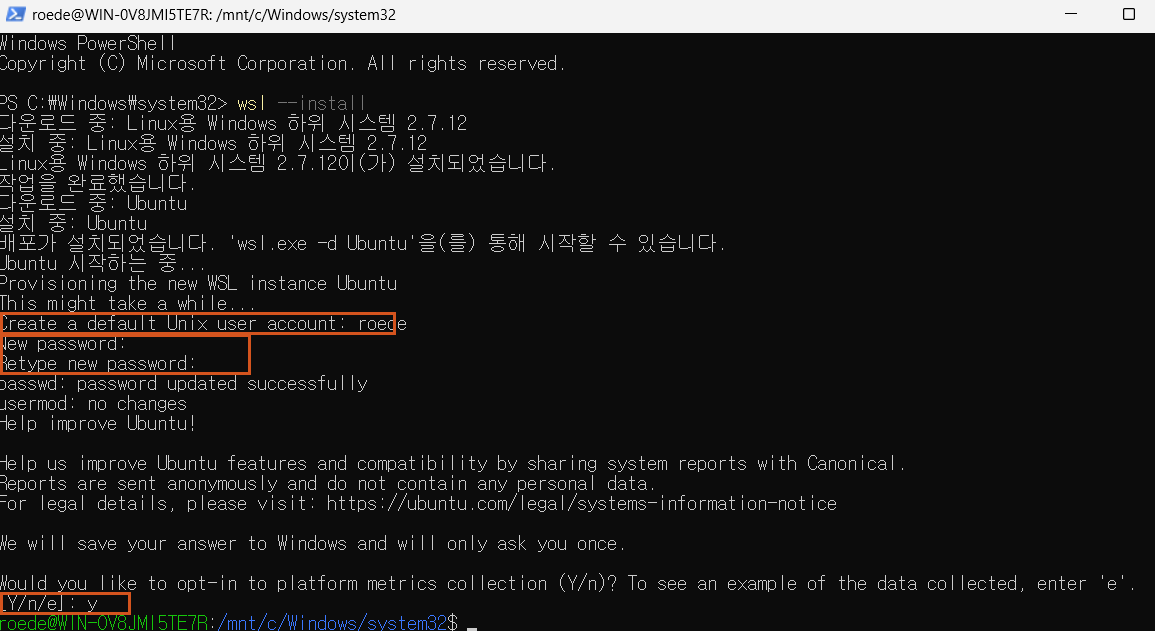
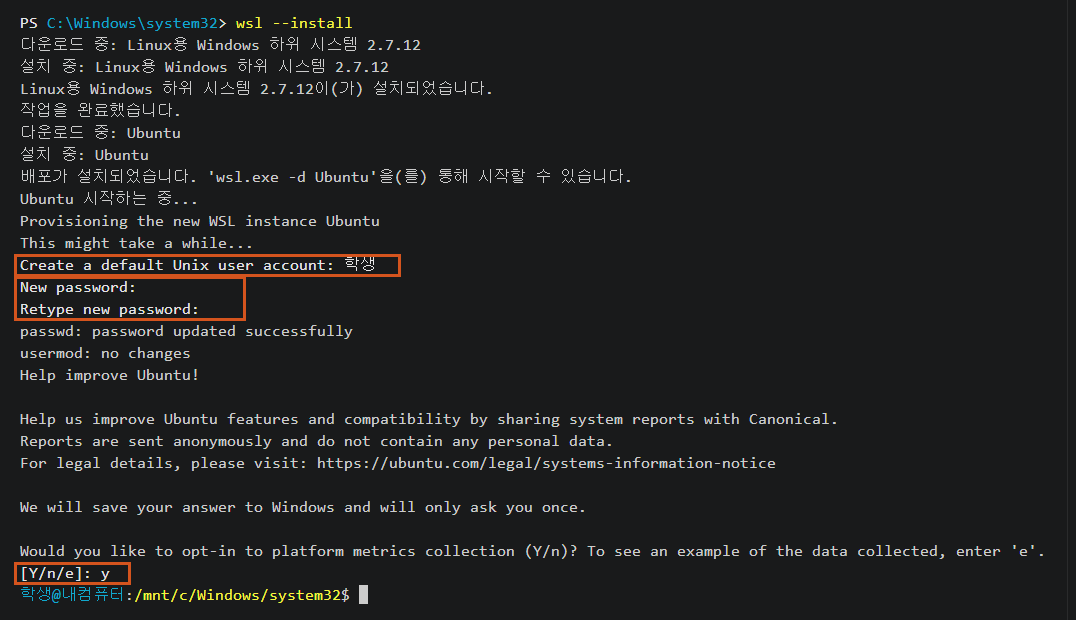
실습 zip 에 .venv 6176개가 섞이던 것 수리 · 개인정보 노출 제거
★ 실습 zip 오염 (가장 큰 것)
  드라이브폴더만들기가 shutil.make_archive 로 폴더를 통째로 담아,
  배포본 폴더에서 uv 를 한 번이라도 돌리면 생긴 .venv 까지 들어갔다.
  실제로 zip 항목이 6269개(그중 .venv 6176개)였다 — 학생 PC 에서는
  경로가 달라 쓰지도 못하는 짐이다. 찌꺼기(.venv/__pycache__/.git/
  *.pyc)를 거르도록 직접 압축으로 바꾸고, 다시 새면 멈추는 게이트 추가.
  결과 64개 파일로 정상화.

★ 개인정보
  wsl --install 실측 사진에 사용자 계정명과 컴퓨터 이름이 그대로
  찍혀 있었다(roede@WIN-...). 사진 대신 터미널그림으로 다시 그려
  「학생@내컴퓨터」로 바꾸고, 물음 세 곳에 강조를 얹었다.
  출력 내용은 실측 그대로.

- 준비안내 ④: 글로만 설명하던 자리에 실측 사진 두 장 추가
  (터미널 메뉴, 터미널 칸의 휴지통). 창이 좁으면 메뉴가 `...` 안으로
  접힌다는 안내 포함. 터미널 칸 사진은 강사 PC 경로가 찍혀 있어
  탭 줄만 잘라 씀
- uv 설치 한 줄을 공식 원문과 일치시킴
  (`-ExecutionPolicy ByPass` 가 빠져 있었다 — 정책이 막힌 PC 에서 실패)

diff --git a/제작/빌드도구/드라이브폴더만들기.py b/제작/빌드도구/드라이브폴더만들기.py
@@ -44,6 +44,7 @@ for _s in (_sys.stdout, _sys.stderr):
 import shutil
 import subprocess
 import sys
+import zipfile
 from pathlib import Path
 
 ROOT = Path(__file__).resolve().parent          # 제작/빌드도구/
@@ -111,13 +112,26 @@ def main() -> int:
         shutil.rmtree(OUT)
     OUT.mkdir(parents=True)
 
-    # ── 실습 ZIP — 옆에 풀려 있는 그 폴더를 그대로 압축한다 ────────────────
+    # ── 실습 ZIP — 옆에 풀려 있는 그 폴더를 압축한다 ──────────────────────
     #    학생은 zip 을 받아 풀어서 VS Code 로 연다(준비안내 ③). 그래서 zip 은 없앨 수 없다.
     #    대신 **풀린 것이 정본**이고 이 zip 은 그 그림자라, 고친 것이 반드시 따라온다.
-    zip_dst = OUT / "2. 실습 파일 (k-precision-lab)"
-    shutil.make_archive(str(zip_dst), "zip",
-                        root_dir=str(산출물), base_dir=실습원본.name)
-    print("  담음  2. 실습 파일 (k-precision-lab).zip  (배포본에서 새로 압축)")
+    #
+    #    ★ 통째로 담으면 안 된다. 이 폴더에서 `uv run` 을 한 번이라도 돌리면
+    #      `.venv` 가 생기고, make_archive 는 그것까지 담는다. 실제로 1MB 짜리
+    #      실습 zip 이 파일 6천 개로 불어난 적이 있다. 학생 PC 에서는 경로가
+    #      달라 쓰지도 못하는 짐이다.
+    찌꺼기폴더 = {".venv", "__pycache__", ".git", ".pytest_cache", ".ruff_cache"}
+    zip_dst = OUT / "2. 실습 파일 (k-precision-lab).zip"
+    담은수 = 0
+    with zipfile.ZipFile(zip_dst, "w", zipfile.ZIP_DEFLATED) as z:
+        for p in sorted(실습원본.rglob("*")):
+            rel = p.relative_to(실습원본.parent)
+            if 찌꺼기폴더 & set(rel.parts) or p.suffix in {".pyc", ".pyo"}:
+                continue
+            if p.is_file():
+                z.write(p, str(rel))
+                담은수 += 1
+    print(f"  담음  {zip_dst.name}  (배포본에서 새로 압축 · 파일 {담은수}개)")
 
     # ── 학생이 읽는 것 — 문서는 PDF 로 낸다 ──────────────────────────────
     #    `.md` 를 드라이브에 올리면 미리보기가 안 되고, 받아도 메모장에서
@@ -179,6 +193,17 @@ def main() -> int:
         print("\n  ★ 강사 것이 섞였습니다 — 올리지 마세요", file=sys.stderr)
         for p in 샌것:
             print(f"      {p.relative_to(OUT)}", file=sys.stderr)
+        return 1
+
+    # 실습 zip 에 작업 찌꺼기가 들어갔는지 — 눈으로는 안 보이고 크기로만 드러난다
+    with zipfile.ZipFile(zip_dst) as z:
+        샌것 = [n for n in z.namelist()
+               if 찌꺼기폴더 & set(Path(n).parts) or n.endswith((".pyc", ".pyo"))]
+    if 샌것:
+        print(f"\n  ★ 실습 zip 에 작업 찌꺼기가 {len(샌것)}개 들어갔습니다 — 올리지 마세요",
+              file=sys.stderr)
+        for n in 샌것[:5]:
+            print(f"      {n}", file=sys.stderr)
         return 1
 
     총 = sum(p.stat().st_size for p in OUT.rglob("*") if p.is_file())

diff --git a/강의/준비안내.md b/강의/준비안내.md
@@ -68,16 +68,24 @@ https://code.visualstudio.com 에서 **Download for Windows** 를 눌러 받고 
 **③에서 연 VS Code 안에서** 합니다. 창을 따로 열 필요 없습니다.
 
 **1. 터미널을 엽니다** — 위 메뉴 **터미널 → 새 터미널** (또는 `Ctrl` + `` ` ``)
-창 아래쪽에 검은 칸이 생기고, 거기에 명령을 칩니다.
+
+![위 메뉴의 터미널 → 새 터미널](그림/vscode_8_터미널메뉴.png)
+
+> 창이 좁으면 **터미널** 메뉴가 `...` 안으로 접힙니다. `...` 를 누르면
+> 그 안에 있습니다.
+
+창 아래쪽에 검은 칸이 생깁니다. 거기에 명령을 칩니다.
 
 **2. 아래 한 줄을 붙여넣고 Enter** — 실습에 쓸 `uv` 를 깝니다.
 
 ```
-powershell -c "irm https://astral.sh/uv/install.ps1 | iex"
+powershell -ExecutionPolicy ByPass -c "irm https://astral.sh/uv/install.ps1 | iex"
 ```
 
 **3. 터미널을 닫고 새로 엽니다** — 방금 깐 것을 인식시키려면 필요합니다.
-터미널 패널 오른쪽 **휴지통 아이콘**을 눌러 닫고, 다시 **터미널 → 새 터미널**.
+터미널 칸 오른쪽 **휴지통 아이콘**을 눌러 닫고, 다시 **터미널 → 새 터미널**.
+
+![터미널 칸 오른쪽 끝의 휴지통 아이콘](그림/vscode_9_휴지통.png)
 
 **4. 실습이 돌아가는지 확인합니다** — 아래 두 줄을 붙여넣고 Enter
 
